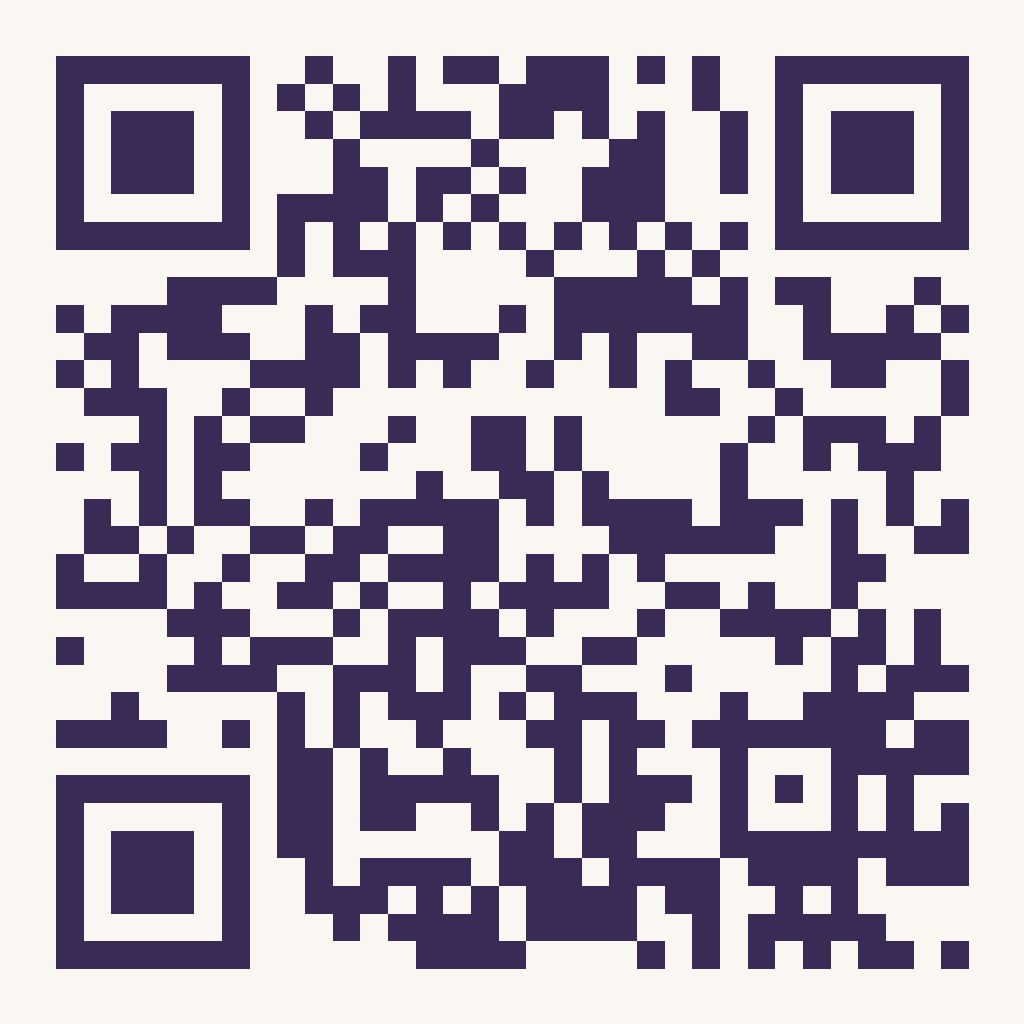
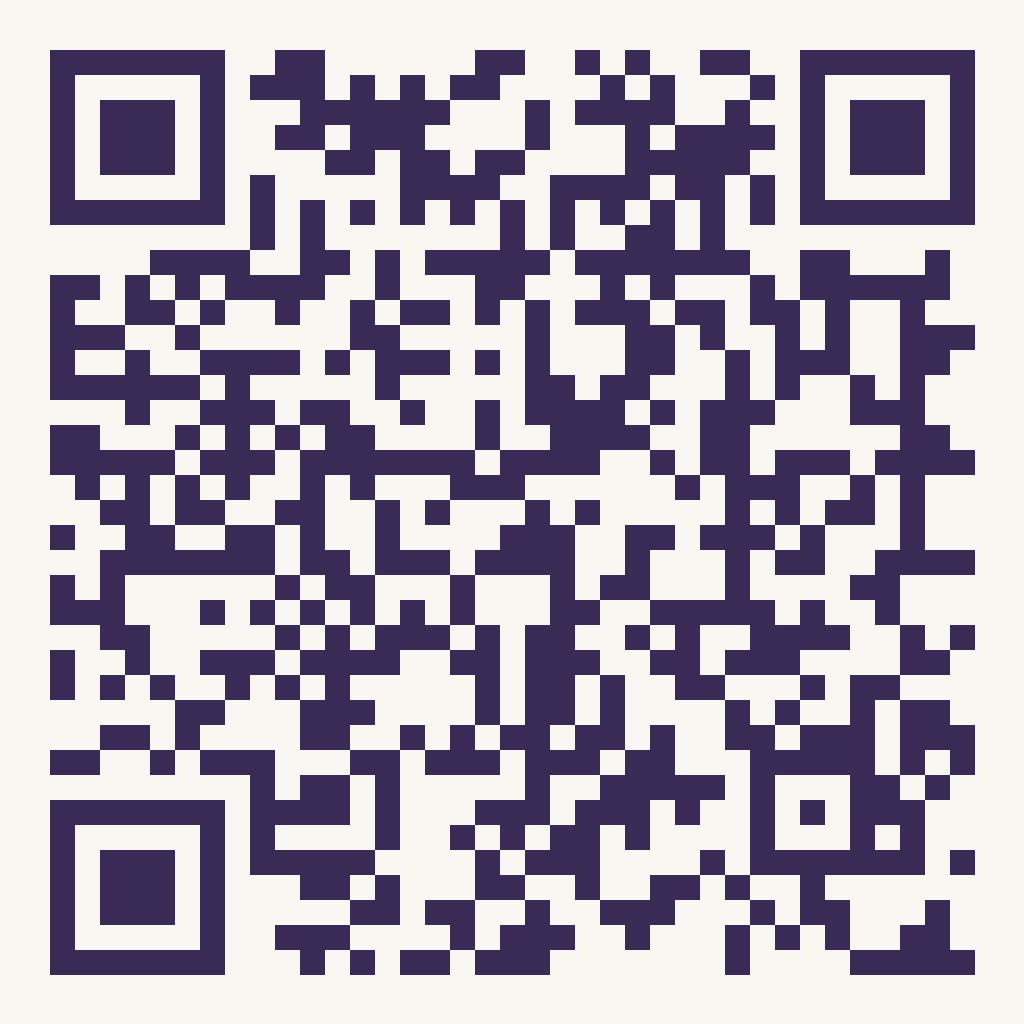
chore: Update base URLs to patisserie-22.vercel.app and add vercel.json

diff --git a/website/src/hooks/useSEO.ts b/website/src/hooks/useSEO.ts
@@ -48,9 +48,9 @@ export const useSEO = ({ title, description, canonicalUrl }: SEOProps = {}) => {
         "@context": "https://schema.org",
         "@type": "Bakery",
         "name": appConfig.store.storeName,
-        "image": "https://patisserie22.com/images/patisserie-22-logo.jpg",
-        "@id": "https://patisserie22.com",
-        "url": "https://patisserie22.com",
+        "image": "https://patisserie-22.vercel.app/images/patisserie-22-logo.jpg",
+        "@id": "https://patisserie-22.vercel.app",
+        "url": "https://patisserie-22.vercel.app",
         "telephone": appConfig.store.phone,
         "address": {
           "@type": "PostalAddress",

diff --git a/website/src/constants/appConfig.ts b/website/src/constants/appConfig.ts
@@ -11,7 +11,7 @@ export const appConfig: AppConfig = {
     window.location.hostname !== 'localhost' &&
     window.location.hostname !== '127.0.0.1'
       ? window.location.origin
-      : 'http://192.168.1.38:5173',
+      : 'https://patisserie-22.vercel.app',
   menuPath: '/menu',
 
   // Computed full QR target URL (points to local network IP or live domain)
@@ -24,7 +24,7 @@ export const appConfig: AppConfig = {
         return `${window.location.origin}${this.menuPath}`;
       }
     }
-    return `http://192.168.1.38:5173${this.menuPath}`;
+    return `https://patisserie-22.vercel.app${this.menuPath}`;
   },
 
   // Currency configuration

diff --git a/website/scripts/generate-qr.js b/website/scripts/generate-qr.js
@@ -22,7 +22,7 @@ function getLocalNetworkIp() {
 }
 
 const networkIp = getLocalNetworkIp();
-const targetUrl = process.env.VITE_MENU_URL || `http://${networkIp}:5173/menu`;
+const targetUrl = process.env.VITE_MENU_URL || 'https://patisserie-22.vercel.app/menu';
 const outputDir = path.resolve(__dirname, '../public/qr');
 const outputPath = path.join(outputDir, 'menu-qr.png');
 
